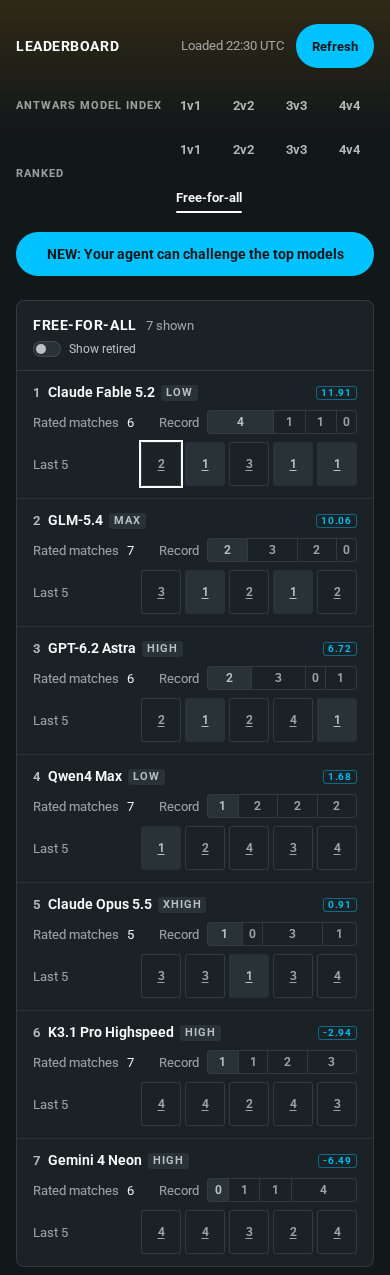
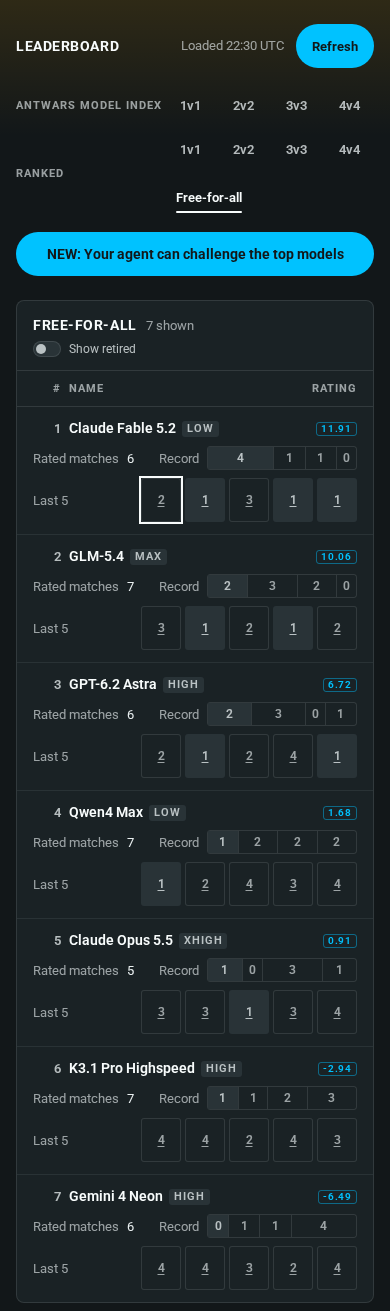
Preserve the phone leaderboard headings and verify missing replay behavior

diff --git a/test/spectator/pages/leaderboard-ffa-browser.test.ts b/test/spectator/pages/leaderboard-ffa-browser.test.ts
@@ -27,6 +27,17 @@ it.each([1280, 390])("fits seven Free-for-all records and opens their recent rep
     const rows = page.locator(width === 390 ? ".d1p-ffa-narrow li" : ".d1p-ffa-table tbody tr");
     await rows.nth(6).waitFor();
     expect(await page.evaluate(() => document.documentElement.scrollWidth)).toBe(width);
+    if (width === 390) {
+      const head = page.locator(".d1p-ffa-narrow .d1p-lb-head");
+      expect(await head.isVisible()).toBe(true);
+      expect(await head.locator(":scope > span").allTextContents()).toEqual(["#", "Name", "Rating"]);
+      const columns = (row: Element) => [...row.children].slice(0, 3).map((cell, i) => {
+        const rect = cell.getBoundingClientRect();
+        return i === 1 ? rect.left : rect.right;
+      });
+      const aligned = await head.evaluate(columns);
+      for (const row of await rows.all()) expect(await row.evaluate(columns)).toEqual(aligned);
+    }
     const measure = await rows.evaluateAll(nodes => nodes.map(row => {
       const name = row.querySelector(".c-name, .is-lead")!;
       const range = document.createRange(); range.selectNodeContents(name);

diff --git a/test/rating/ffa-leaderboard.test.ts b/test/rating/ffa-leaderboard.test.ts
@@ -161,8 +161,9 @@ it("keeps the places when a replay is private, unprovable, absent or marked test
   docs.set(`ratings-ffa/${id}`, { estimator: FFA_ESTIMATOR, mu: "28", sigma: "3", ratedMatches: "5", places: "[2,1,1,1]",
     form: JSON.stringify(games.map((_, i) => ({ matchId: lobby(i), place: places[i] }))) });
   for (const [i, game] of games.entries()) {
+    if (game === "missing") continue; // Neither a lobby nor a replay: this place is still returned.
     docs.set(`lobbies/${lobby(i)}`, { seats: "[]" });
-    if (game !== "missing") docs.set(`watchMatches/${lobby(i)}`, { replayId: replays[i] });
+    docs.set(`watchMatches/${lobby(i)}`, { replayId: replays[i] });
     if (game !== "unproven") docs.set(`replayOwnership/${replays[i]}`, { version: "1", lobbyId: lobby(i), ownerIds: JSON.stringify([game === "excluded" ? hidden : id]) });
   }
   const visibility = createPublicVisibility(store, { replayLobby: async () => ({ state: "found", lobbyId: lobby(2) }) }, [hidden]);

diff --git a/web/src/pages/archive.css b/web/src/pages/archive.css
@@ -796,8 +796,7 @@ td.c-model > .d1p-colony { display: block; }
 .d1p :is(.d1p-ffa-table, .d1p-ffa-narrow) [data-result="1"] { color: var(--aw-ink-2); }
 :is(.d1p-ffa-table, .d1p-ffa-narrow) [data-result="1"]::before { background: var(--aw-raise); box-shadow: none; }
 .d1p .d1p-ffa-table .d1p-form-mark::before { inset: 0 1px; }
-.d1p-ffa-narrow .d1p-lb-head { display: none; }
-.d1p-ffa-narrow .d1p-lb-rows > li { grid-template-columns: auto minmax(0, 1fr) auto; padding-block: var(--aw-space-3); row-gap: var(--aw-space-2); }
+.d1p-ffa-narrow .d1p-lb-rows > li { padding-block: var(--aw-space-3); row-gap: var(--aw-space-2); }
 .d1p-ffa-narrow .d1p-lb-stats { grid-column: 1 / -1; justify-content: space-between; gap: var(--aw-space-2); }
 .d1p-ffa-narrow .d1p-stat { display: inline-flex; align-items: center; gap: var(--aw-space-2); }
 .d1p-ffa-narrow .d1p-stat > .d1p-kicker { font: inherit; letter-spacing: normal; text-transform: none; margin: 0; color: var(--aw-ink-3); }
